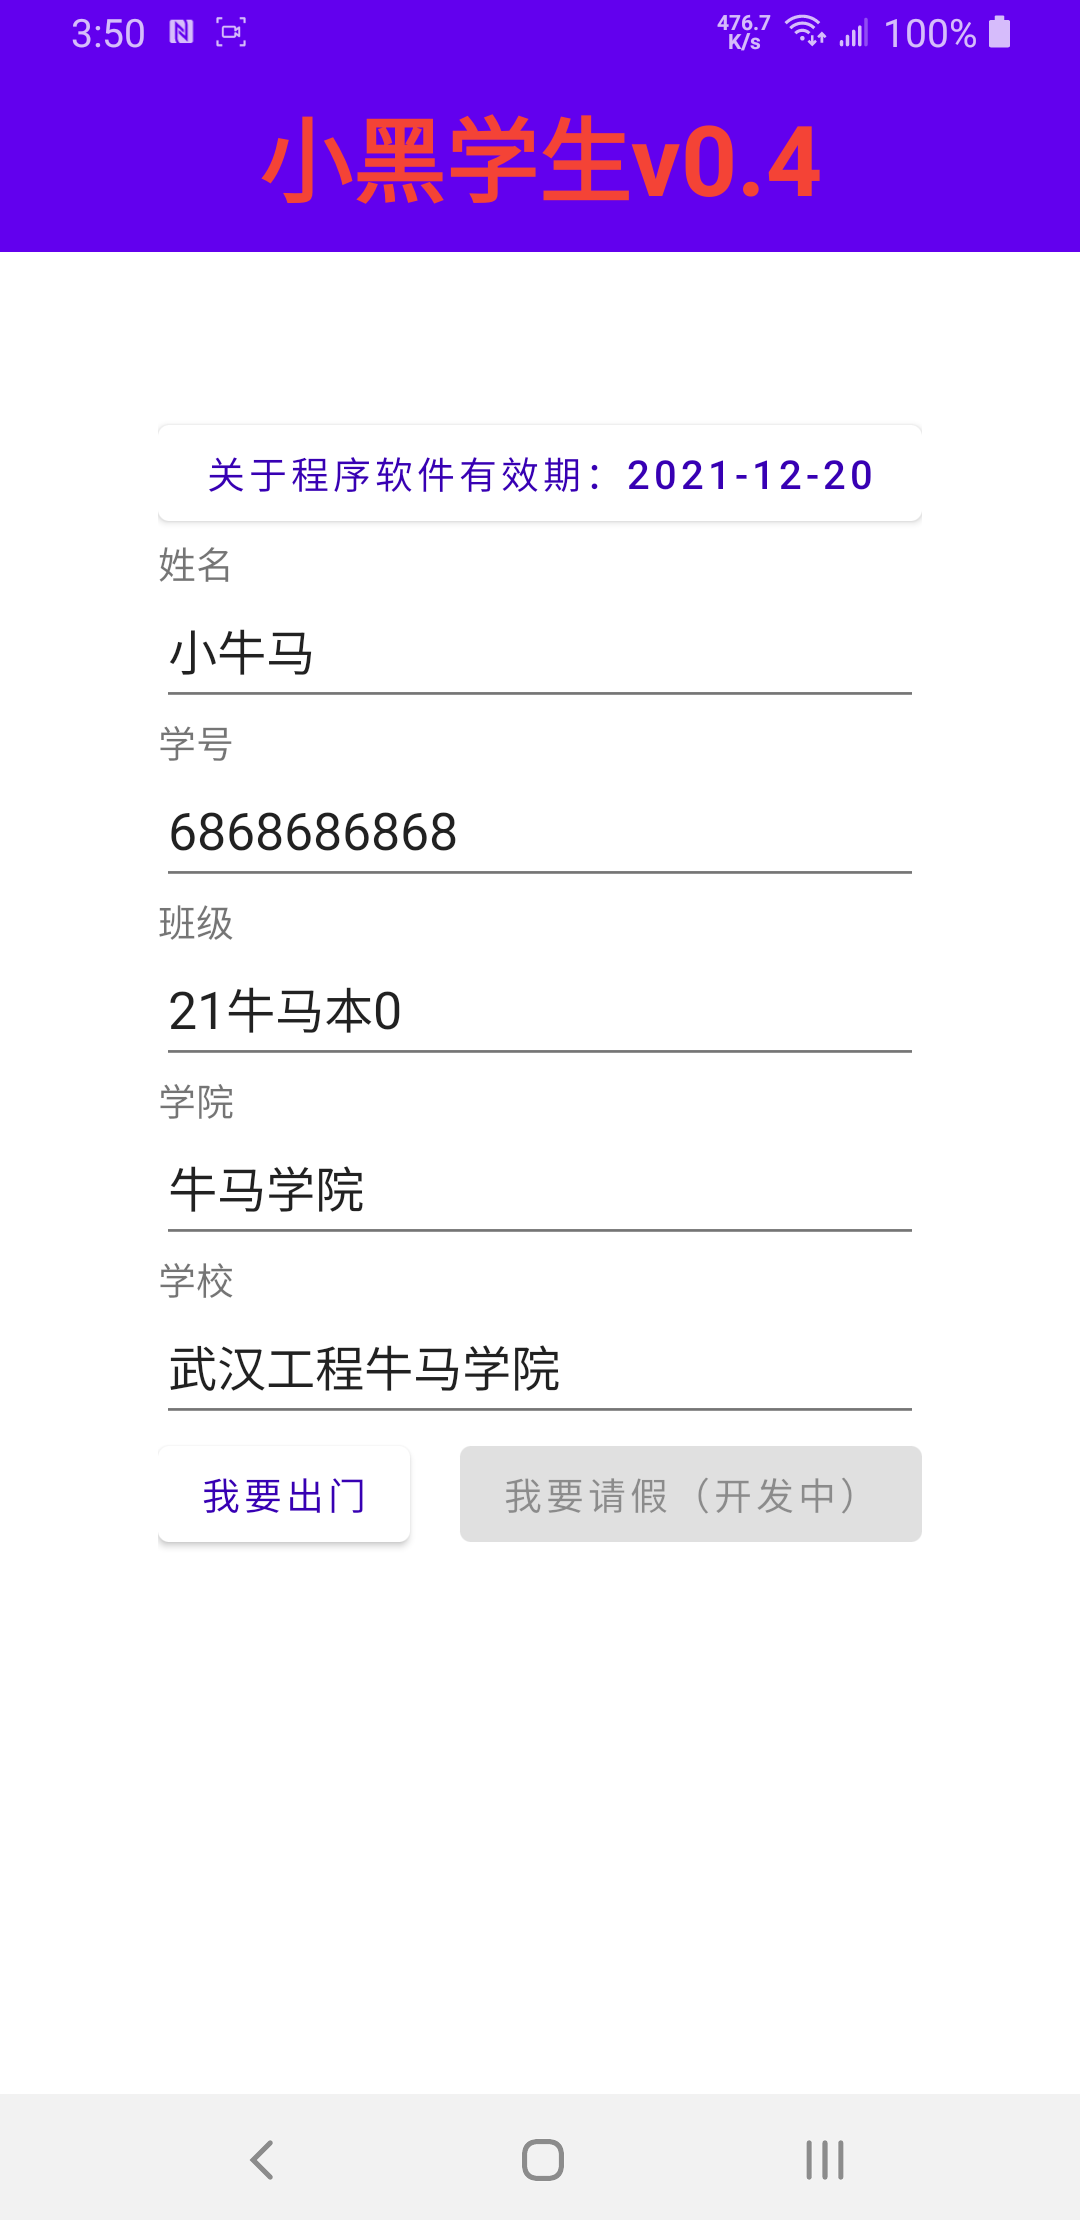
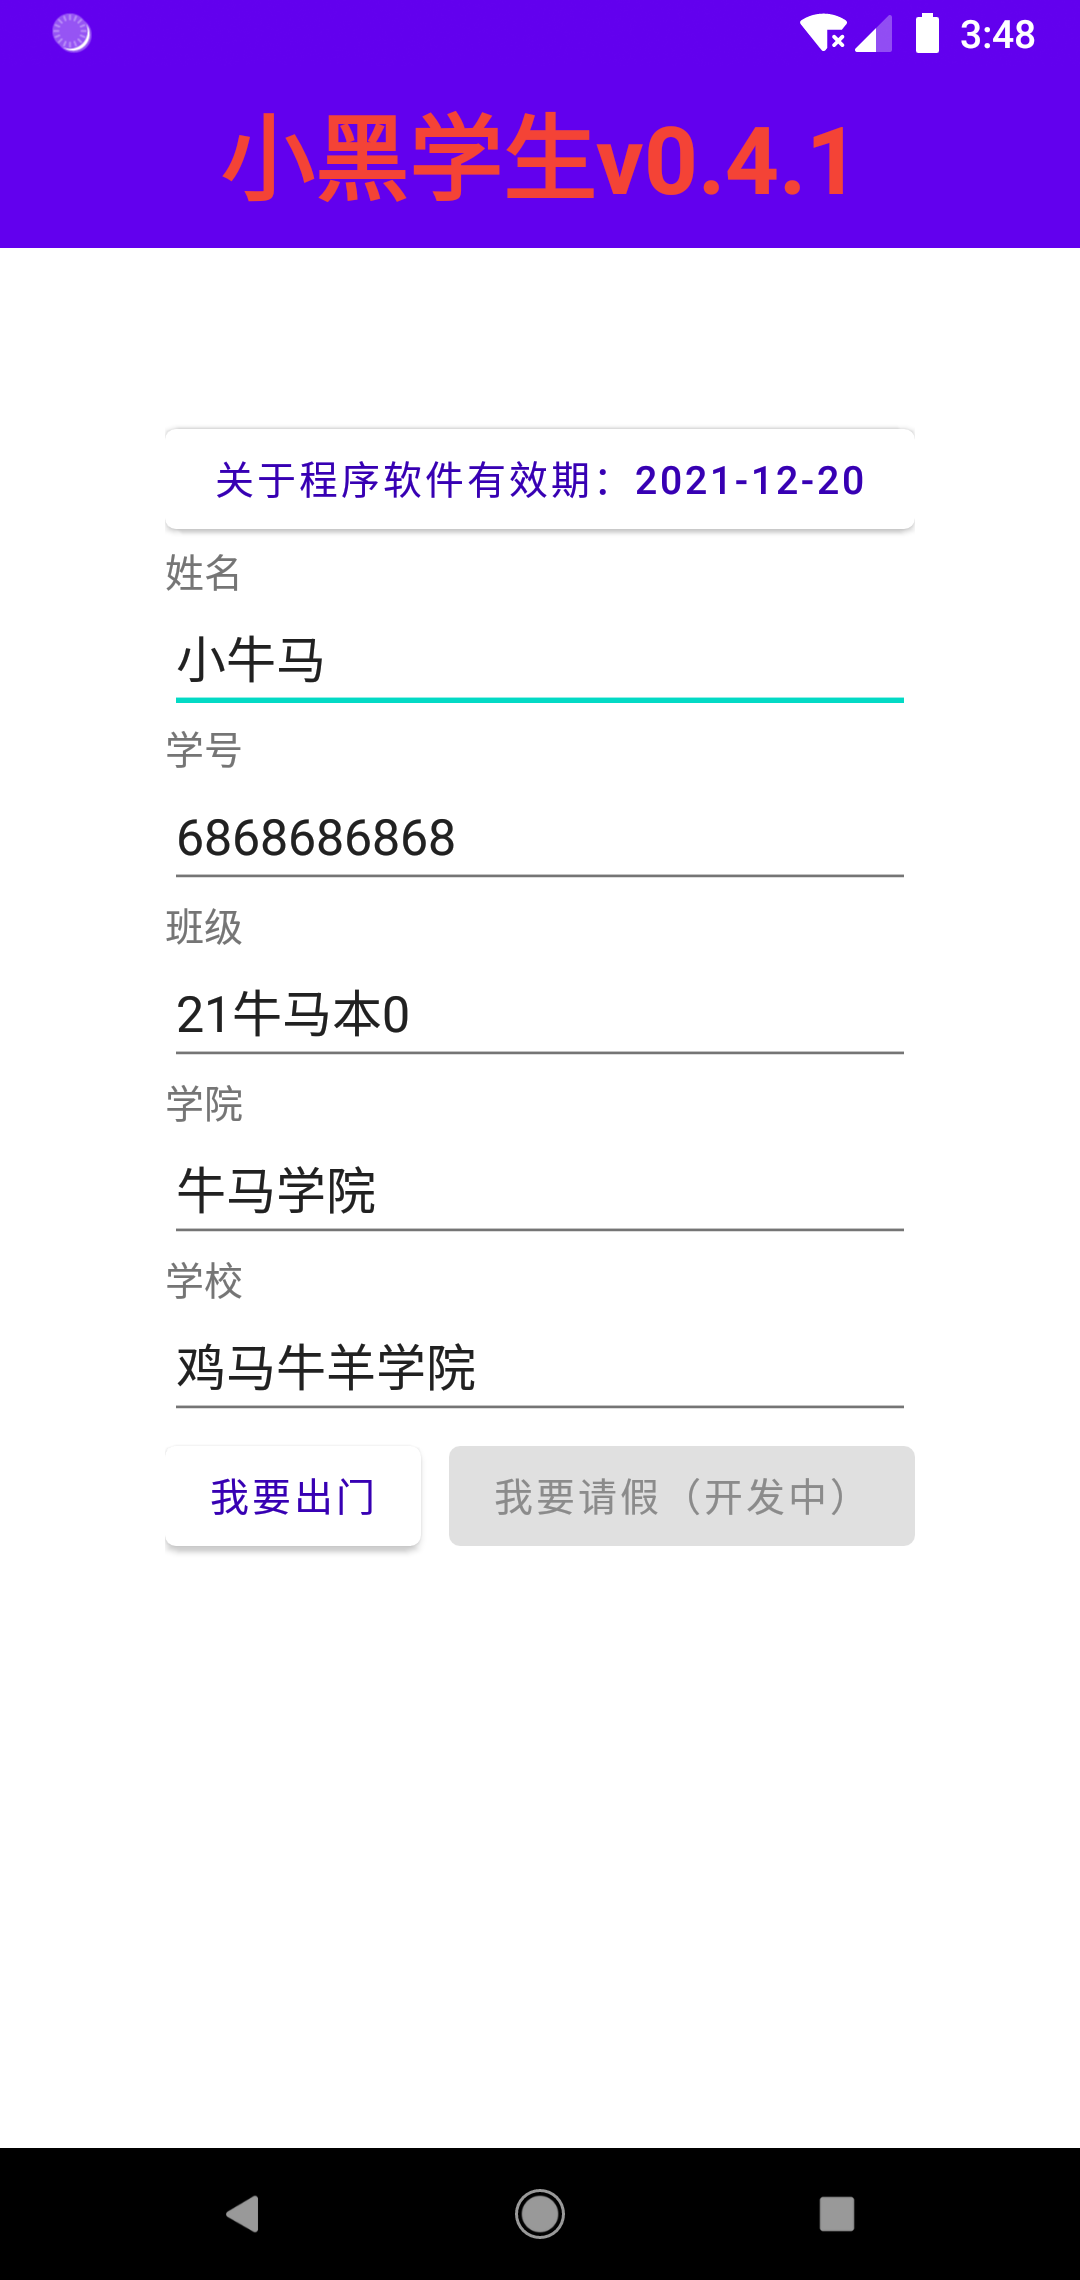
v0.4.1

diff --git a/app/src/main/assets/index.html b/app/src/main/assets/index.html
@@ -77,7 +77,7 @@
             document.getElementById('toinfo2').innerHTML = decodeURI(getQueryVariable('No'))
             document.getElementById('toinfo3').innerHTML = decodeURI(getQueryVariable('Class'))
             document.getElementById('toinfo4').innerHTML = decodeURI(getQueryVariable('College'))
-            document.getElementById('toinfo5').innerHTML = decodeURI(etQueryVariable('School'))
+            document.getElementById('toinfo5').innerHTML = decodeURI(egtQueryVariable('School'))
         </script>
     </div>
 </div>
@@ -93,63 +93,6 @@
     })
     document.getElementById('header').addEventListener('click', function () {
         location.href = 'before.html?No=' + getQueryVariable('No') + '&Name=' + getQueryVariable('Name') + '&Class=' + getQueryVariable('Class') + '&College=' + getQueryVariable('College') + '&School=' + getQueryVariable('School')
-    })
-</script>
-<!--    <div id="tool">-->
-<!--        <img src="img/btn_left.png" alt="">-->
-<!--    </div>-->
-<!--    <div id="toolpage">-->
-<!--        <div id="close"><span style="color: red;">X</span>&nbsp;&nbsp;&nbsp;输入信息后按左侧关闭</div>-->
-<!--        <div>姓名<input type="text" id="info1"></div>-->
-<!--        <div>学号<input type="text" id="info2"></div>-->
-<!--        <div>班级<input type="text" id="info3"></div>-->
-<!--        <div>学院<input type="text" id="info4"></div>-->
-<!--        <div>学校<input type="text" id="info5"></div>-->
-<!--        <button id="b-">减小行距</button>-->
-<!--        <span style="color: white;">当前行距：<span style="color: white;" id="margin2">40px</span></span>-->
-<!--        <button id="b+">增大行距</button>-->
-<!--        <script>-->
-<!--            var cover=document.getElementById('cover')-->
-<!--            cover.style.lineHeight='40px'-->
-<!--            document.getElementById('b+').addEventListener('click',function(){-->
-<!--                let re=cover.style.lineHeight-->
-<!--                re=re.split('px')[0]-->
-<!--                re=parseInt(re)+1-->
-<!--                document.getElementById('margin2').innerHTML=re+'px'-->
-<!--                cover.style.lineHeight=re+'px'-->
-<!--            })-->
-<!--            document.getElementById('b-').addEventListener('click',function(){-->
-<!--                let re=cover.style.lineHeight-->
-<!--                re=re.split('px')[0]-->
-<!--                re=parseInt(re)-1-->
-<!--                document.getElementById('margin2').innerHTML=re+'px'-->
-<!--                cover.style.lineHeight=re+'px'-->
-<!--            })-->
-<!--        </script>-->
-<!--    </div>-->
-<script>
-    document.getElementById('tool').addEventListener('click', function () {
-        document.getElementById('toolpage').style.zIndex = 9999
-        document.getElementById('toolpage').style.opacity = '100%'
-    })
-    document.getElementById('close').addEventListener('click', function () {
-        document.getElementById('toolpage').style.zIndex = -1
-        document.getElementById('toolpage').style.opacity = '0'
-    })
-    document.getElementById('info1').addEventListener('change', function () {
-        document.getElementById('toinfo1').innerHTML = document.getElementById('info1').value;
-    })
-    document.getElementById('info2').addEventListener('change', function () {
-        document.getElementById('toinfo2').innerHTML = document.getElementById('info2').value;
-    })
-    document.getElementById('info3').addEventListener('change', function () {
-        document.getElementById('toinfo3').innerHTML = document.getElementById('info3').value;
-    })
-    document.getElementById('info4').addEventListener('change', function () {
-        document.getElementById('toinfo4').innerHTML = document.getElementById('info4').value;
-    })
-    document.getElementById('info5').addEventListener('change', function () {
-        document.getElementById('toinfo5').innerHTML = document.getElementById('info5').value;
     })
 </script>
 </body>

diff --git a/app/src/main/assets/before.html b/app/src/main/assets/before.html
@@ -28,15 +28,9 @@
 <img alt="" src="./img/up.jpg">
 <img alt="" src="./img/Tabs.jpg" style="bottom: 0px;position: fixed;left: 50%;transform: translateX(-50%);">
 <script>
-    // var stopTime = new Date("2099-12-12")
-    // if (new Date().getTime() <= stopTime.getTime()) {
     document.body.addEventListener('click', function () {
         location.href = 'index.html?No=' + getQueryVariable('No') + '&Name=' + getQueryVariable('Name') + '&Class=' + getQueryVariable('Class') + '&College=' + getQueryVariable('College') + '&School=' + getQueryVariable('School')
-        //location.href = 'index_dj.html'
     })
-    // } else {
-    //     document.body.innerHTML = "软件已过期！"
-    // }
 </script>
 </body>
 

diff --git a/app/src/main/assets/style.css b/app/src/main/assets/style.css
@@ -45,7 +45,6 @@ div {
     flex-direction: column;
     margin-top: 10px;
     padding: 30px;
-    /* background-color: red; */
 }
 
 #info .title {
@@ -72,6 +71,7 @@ div {
 
 #code.red {
     background-color: #D73B3C;
+    animation: none;
 }
 
 @keyframes code_green {

diff --git a/app/src/main/java/com/xioahei/Activity/goOutActivity.java b/app/src/main/java/com/xioahei/Activity/goOutActivity.java
@@ -1,32 +1,17 @@
 package com.xioahei.Activity;
 
-import android.app.Activity;
 import android.os.Build;
 import android.os.Bundle;
 import android.webkit.WebView;
 import android.webkit.WebViewClient;
-import android.widget.Toast;
 import androidx.annotation.Nullable;
 import androidx.appcompat.app.AppCompatActivity;
 import com.xioahei.R;
 import com.xioahei.User;
 import com.xioahei.Util.StatusBarUtils;
 
-import java.util.Timer;
-import java.util.TimerTask;
-
 //生成出门绿码
 public class goOutActivity extends AppCompatActivity {
-
-    /**
-     * Called when the activity has detected the user's press of the back
-     * key. The {@link #getOnBackPressedDispatcher() OnBackPressedDispatcher} will be given a
-     * chance to handle the back button before the default behavior of
-     * {@link Activity#onBackPressed()} is invoked.
-     *
-     * @see #getOnBackPressedDispatcher()
-     */
-    private static boolean mBackKeyPressed;
 
     @Override
     protected void onCreate(@Nullable Bundle savedInstanceState) {
@@ -39,8 +24,6 @@ public class goOutActivity extends AppCompatActivity {
         User user = User.getInstance();
         args += "No=" + user.No + "&Name=" + user.Name + "&Class=" + user.Class + "&College=" + user.College + "&School=" + user.School;
         broswer.loadUrl("file:///android_asset/before.html?" + args);
-//        Toast.makeText(getApplicationContext(),user.Name,Toast.LENGTH_LONG).show();
-//        Toast.makeText(getApplicationContext(),args,Toast.LENGTH_LONG).show();
         broswer.getSettings().setJavaScriptEnabled(true);
         broswer.setWebViewClient(new WebViewClient() {
             /**
@@ -61,21 +44,15 @@ public class goOutActivity extends AppCompatActivity {
 
     @Override
     public void onBackPressed() {
+        /*重写返回事件，通过正则匹配当前页面判断：
+        1返回上一页面
+        2返回上一activity*/
         WebView broswer = findViewById(R.id.xiaoheiwebview);
-        if (broswer.canGoBack()) {
+        String regx_before = "^.*before.*$", regx_index = "^.*index.*$";
+        if (broswer.getUrl().matches(regx_index)) {
             User user = User.getInstance();
             String args = "No=" + user.No + "&Name=" + user.Name + "&Class=" + user.Class + "&College=" + user.College + "&School=" + user.School;
             broswer.loadUrl("file:///android_asset/before.html?" + args);
-        }
-        if (!mBackKeyPressed) {
-            Toast.makeText(this, "再按一次退出", Toast.LENGTH_SHORT).show();
-            mBackKeyPressed = true;
-            new Timer().schedule(new TimerTask() {
-                @Override
-                public void run() {
-                    mBackKeyPressed = false;
-                }
-            }, 2000);
         } else {
             super.onBackPressed();
         }

diff --git a/app/src/main/java/com/xioahei/Util/DatabaseHelper.java b/app/src/main/java/com/xioahei/Util/DatabaseHelper.java
@@ -6,7 +6,7 @@ import android.database.sqlite.SQLiteOpenHelper;
 
 public class DatabaseHelper extends SQLiteOpenHelper {
     public static final String TABLE_NAME = "User";
-    private static final int DB_VERSION = 1;
+    private static final int DB_VERSION = 2;
     private static final String DB_NAME = "xiaohei.db";
 
     public DatabaseHelper(Context context) {
@@ -17,7 +17,7 @@ public class DatabaseHelper extends SQLiteOpenHelper {
     public void onCreate(SQLiteDatabase sqLiteDatabase) {
         String sql = "create table if not exists " + TABLE_NAME + " (Id integer primary key, Name text, No text,Class text ,College text,School text)";
         sqLiteDatabase.execSQL(sql);
-        sqLiteDatabase.execSQL("insert into User values(1, '小牛马', '6868686868','21牛马本0','牛马学院','武汉工程牛马学院')");
+        sqLiteDatabase.execSQL("insert into User values(1, '小牛马', '6868686868','21牛马本0','牛马学院','鸡马牛羊学院')");
     }
 
     @Override

diff --git a/app/src/main/java/com/xioahei/Util/AppInfo.java b/app/src/main/java/com/xioahei/Util/AppInfo.java
@@ -1,8 +1,7 @@
 package com.xioahei.Util;
 
 public class AppInfo {
-    public static final String APP_VERSION = "0.4";
-    public static final String UPDATE_LOG = "增加了关于页面\n修复了一个不同版本webview导致的布局问题\n" +
-            "增加了校验机制";
+    public static final String APP_VERSION = "0.4.1";
+    public static final String UPDATE_LOG = "移除了一些已经弃用的代码\n修复了一个导致无法签到的bug\n更新了默认信息";
     public static final String LIVE_TIME = "2021-12-20";
 }

diff --git a/README.md b/README.md
@@ -2,7 +2,7 @@
 
 ## 简介
 
-![版本号](https://img.shields.io/badge/%E7%89%88%E6%9C%AC-0.4-brightgreen)
+![版本号](https://img.shields.io/badge/%E7%89%88%E6%9C%AC-0.4.1-brightgreen)
 
 ~~小黑学生是小北学生的黑化版~~
 
@@ -17,13 +17,11 @@ minSdkVersion=22
 targetSdkVersion=30
 ```
 
-
 ### Java:
 
 ```
 JDKVersion=1.8
 ```
-
 
 ### Gradle:
 
@@ -31,8 +29,8 @@ JDKVersion=1.8
 gradleVersion=4.2.0
 ```
 
-
 ## 预览截图
+
 ![截图](https://github.com/WangHan2014/XiaoHeiStudent/blob/main/screeshots/MainActivity.png)
 
 <center>仅供学习交流,严禁用于商业用途,请于24小时内删除 </center>
